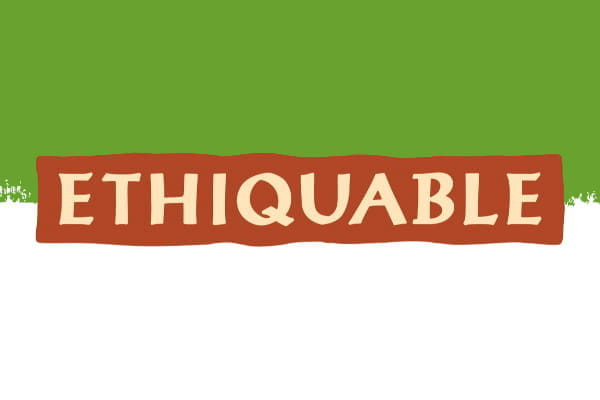
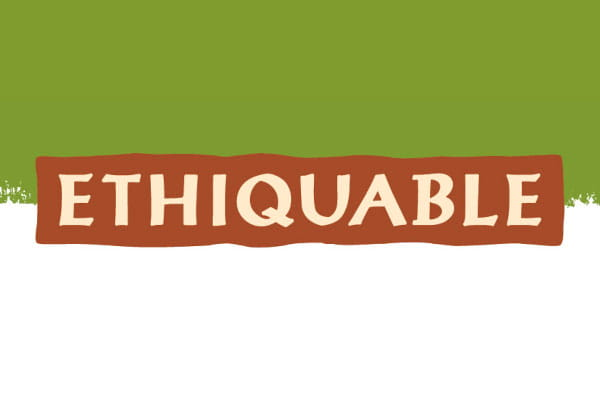
Styling and color improvements

diff --git a/src/views/Product.vue b/src/views/Product.vue
@@ -18,9 +18,9 @@
             :alt="product.featuredImage.title"
             v-bind="productImageProps"
           ></v-img>
-          <div class="px-5" style="flex-grow: 1; color: var(--product-color)" ref="headerText">
-            <h1 class="text-h4">{{ product.name }}</h1>
-            <h2 class="text-subtitle-2" v-if="product.subtitle">
+          <div class="px-5" style="flex-grow: 1" ref="headerText">
+            <h1 class="text-h4" style="color: var(--product-color)">{{ product.name }}</h1>
+            <h2 class="text-subtitle-2" style="color: var(--product-color)" v-if="product.subtitle">
               <i>{{ product.subtitle }}</i>
             </h2>
           </div>
@@ -61,8 +61,7 @@
         </div>
 
         <!-- Product content -->
-        <h2 class="text-h4 mt-4 mb-2" style="color: var(--v-primary-base)">Was ich esse / trinke</h2>
-        <div v-html="product.content" class="product-content"></div>
+        <div v-html="product.content" class="product-content mt-4"></div>
 
         <!-- Shop link -->
         <div class="mt-4" style="max-width: 500px" v-if="product.shopLink">
@@ -86,7 +85,7 @@
       <!-- Just don't show producers until it's loaded or there is an error -->
       <v-col cols="12" md="6" v-if="producers.length">
         <!-- Producers -->
-        <h2 class="text-h4 mt-4 mb-2" style="color: var(--v-primary-base)">Das will ich</h2>
+        <h2 class="text-h4 mt-4 mb-2">Das will ich</h2>
         <v-row no-gutters v-for="(producer, i) in producers" :key="i">
           <v-col cols="12">
             <v-divider class="mt-4 mb-2" v-if="i > 0"></v-divider>
@@ -336,6 +335,13 @@ export default {
 </script>
 
 <style scoped>
+* >>> h3,
+* >>> h4,
+* >>> h5,
+* >>> h6 {
+  color: var(--v-primary-base);
+  text-transform: uppercase;
+}
 .header-container {
   position: relative;
   width: 100%;

diff --git a/src/components/posts/Posts.vue b/src/components/posts/Posts.vue
@@ -7,7 +7,7 @@
       <v-col class="d-flex" v-bind="breakpointProps" v-if="type === 'home'">
         <v-card dark hover to="/shopfinder" class="d-flex flex-column" color="primary" style="width: 100%">
           <v-card-title class="justify-center">
-            <h3 class="headline">Hier finden Sie uns:</h3>
+            <h3 class="text-h5">Hier finden Sie uns:</h3>
           </v-card-title>
           <v-img
             src="@/assets/map/shopfinder.jpg"
@@ -43,7 +43,7 @@
           >
           </v-img>
           <v-card-title>
-            <h3 class="headline">{{ article.title }}</h3>
+            <h3 class="text-h5">{{ article.title }}</h3>
           </v-card-title>
           <v-card-text>
             <div v-html="article.excerpt" style="text-align: justify"></div>

diff --git a/src/App.vue b/src/App.vue
@@ -52,6 +52,11 @@ export default {
 </script>
 
 <style>
+h1,
+h2 {
+  color: var(--v-primary-base);
+  text-transform: uppercase;
+}
 .main-container {
   max-width: 1200px;
   min-height: 60vh;
@@ -200,10 +205,13 @@ table.ethiquable-table tr:last-child > td:last-child {
     flex-direction: row;
     align-items: flex-start;
   }
-  .post-container .ethiquable-layout > .left,
+  .post-container .ethiquable-layout > .left {
+    margin-right: 8px;
+    padding-right: 8px;
+  }
   .post-container .ethiquable-layout > .right {
-    padding: 8px;
-    margin: 0 8px;
+    margin-left: 8px;
+    padding-left: 8px;
   }
   .post-container .ethiquable-layout > .right {
     flex-shrink: 1;

diff --git a/src/components/partials/MapPopup.vue b/src/components/partials/MapPopup.vue
@@ -1,9 +1,9 @@
 <template>
   <l-popup>
-    <h3 class="headline mb-2">{{ marker.name }}</h3>
+    <h3 class="text-h5 mb-2">{{ marker.name }}</h3>
     <!-- Address -->
     <div class="align-center mb-2">
-      <v-icon color="primary" class="icon">mdi-map-marker</v-icon>
+      <v-icon class="icon">mdi-map-marker</v-icon>
       <span style="color: rgba(0, 0, 0, 0.6)" class="body-2 text">{{ marker.address }}</span>
     </div>
   </l-popup>
@@ -29,6 +29,6 @@ export default {
 }
 .text {
   display: block;
-  padding-left: 40px;
+  padding-left: 30px;
 }
 </style>

diff --git a/src/components/partials/CarouselSlider.vue b/src/components/partials/CarouselSlider.vue
@@ -13,7 +13,7 @@
       <v-carousel-item v-for="(slide, i) in slides" :key="i" :src="slide.featuredImage.source" v-bind="slide.linkProps">
         <v-row class="fill-height" justify="center" align="end">
           <v-col cols="12" class="slide-caption">
-            <h4 class="text-h4">{{ slide.title }}</h4>
+            <h3 class="text-h4">{{ slide.title }}</h3>
             <span class="text-subtitle-1" v-if="slide.excerpt">{{ slide.excerpt }}</span>
           </v-col>
         </v-row>

diff --git a/src/views/Home.vue b/src/views/Home.vue
@@ -8,7 +8,7 @@
       <Posts :page="1" type="home" />
     </v-container>
     <div class="text-center">
-      <v-btn large color="primary" @click="loadMorePosts()" class="mb-2"> Mehr Neuigkeiten </v-btn>
+      <v-btn large color="secondary" @click="loadMorePosts()" class="mb-2"> Mehr Neuigkeiten </v-btn>
     </div>
   </div>
 </template>

diff --git a/src/services/shared.js b/src/services/shared.js
@@ -68,7 +68,7 @@ export default {
     const g = (rgb >> 8) & 0xff;
     const b = (rgb >> 0) & 0xff;
     const luma = 0.2126 * r + 0.7152 * g + 0.0722 * b;
-    if (luma <= 128) {
+    if (luma <= 150) {
       // Is dark
       return "#fff";
     } else {

diff --git a/src/components/maps/ShopFinderMap.vue b/src/components/maps/ShopFinderMap.vue
@@ -30,7 +30,7 @@
             />
           </l-icon>
           <l-popup>
-            <h3 class="headline">Ihr Standort!</h3>
+            <h3 class="text-h5">Ihr Standort!</h3>
           </l-popup>
         </l-marker>
       </div>

diff --git a/src/views/Post.vue b/src/views/Post.vue
@@ -105,4 +105,12 @@ export default {
 };
 </script>
 
-<style></style>
+<style scoped>
+* >>> h3,
+* >>> h4,
+* >>> h5,
+* >>> h6 {
+  color: var(--v-primary-base);
+  text-transform: uppercase;
+}
+</style>

diff --git a/src/views/Producer.vue b/src/views/Producer.vue
@@ -110,4 +110,12 @@ export default {
 };
 </script>
 
-<style></style>
+<style scoped>
+* >>> h3,
+* >>> h4,
+* >>> h5,
+* >>> h6 {
+  color: var(--v-primary-base);
+  text-transform: uppercase;
+}
+</style>

diff --git a/src/views/Page.vue b/src/views/Page.vue
@@ -99,4 +99,12 @@ export default {
 };
 </script>
 
-<style></style>
+<style scoped>
+* >>> h3,
+* >>> h4,
+* >>> h5,
+* >>> h6 {
+  color: var(--v-primary-base);
+  text-transform: uppercase;
+}
+</style>
